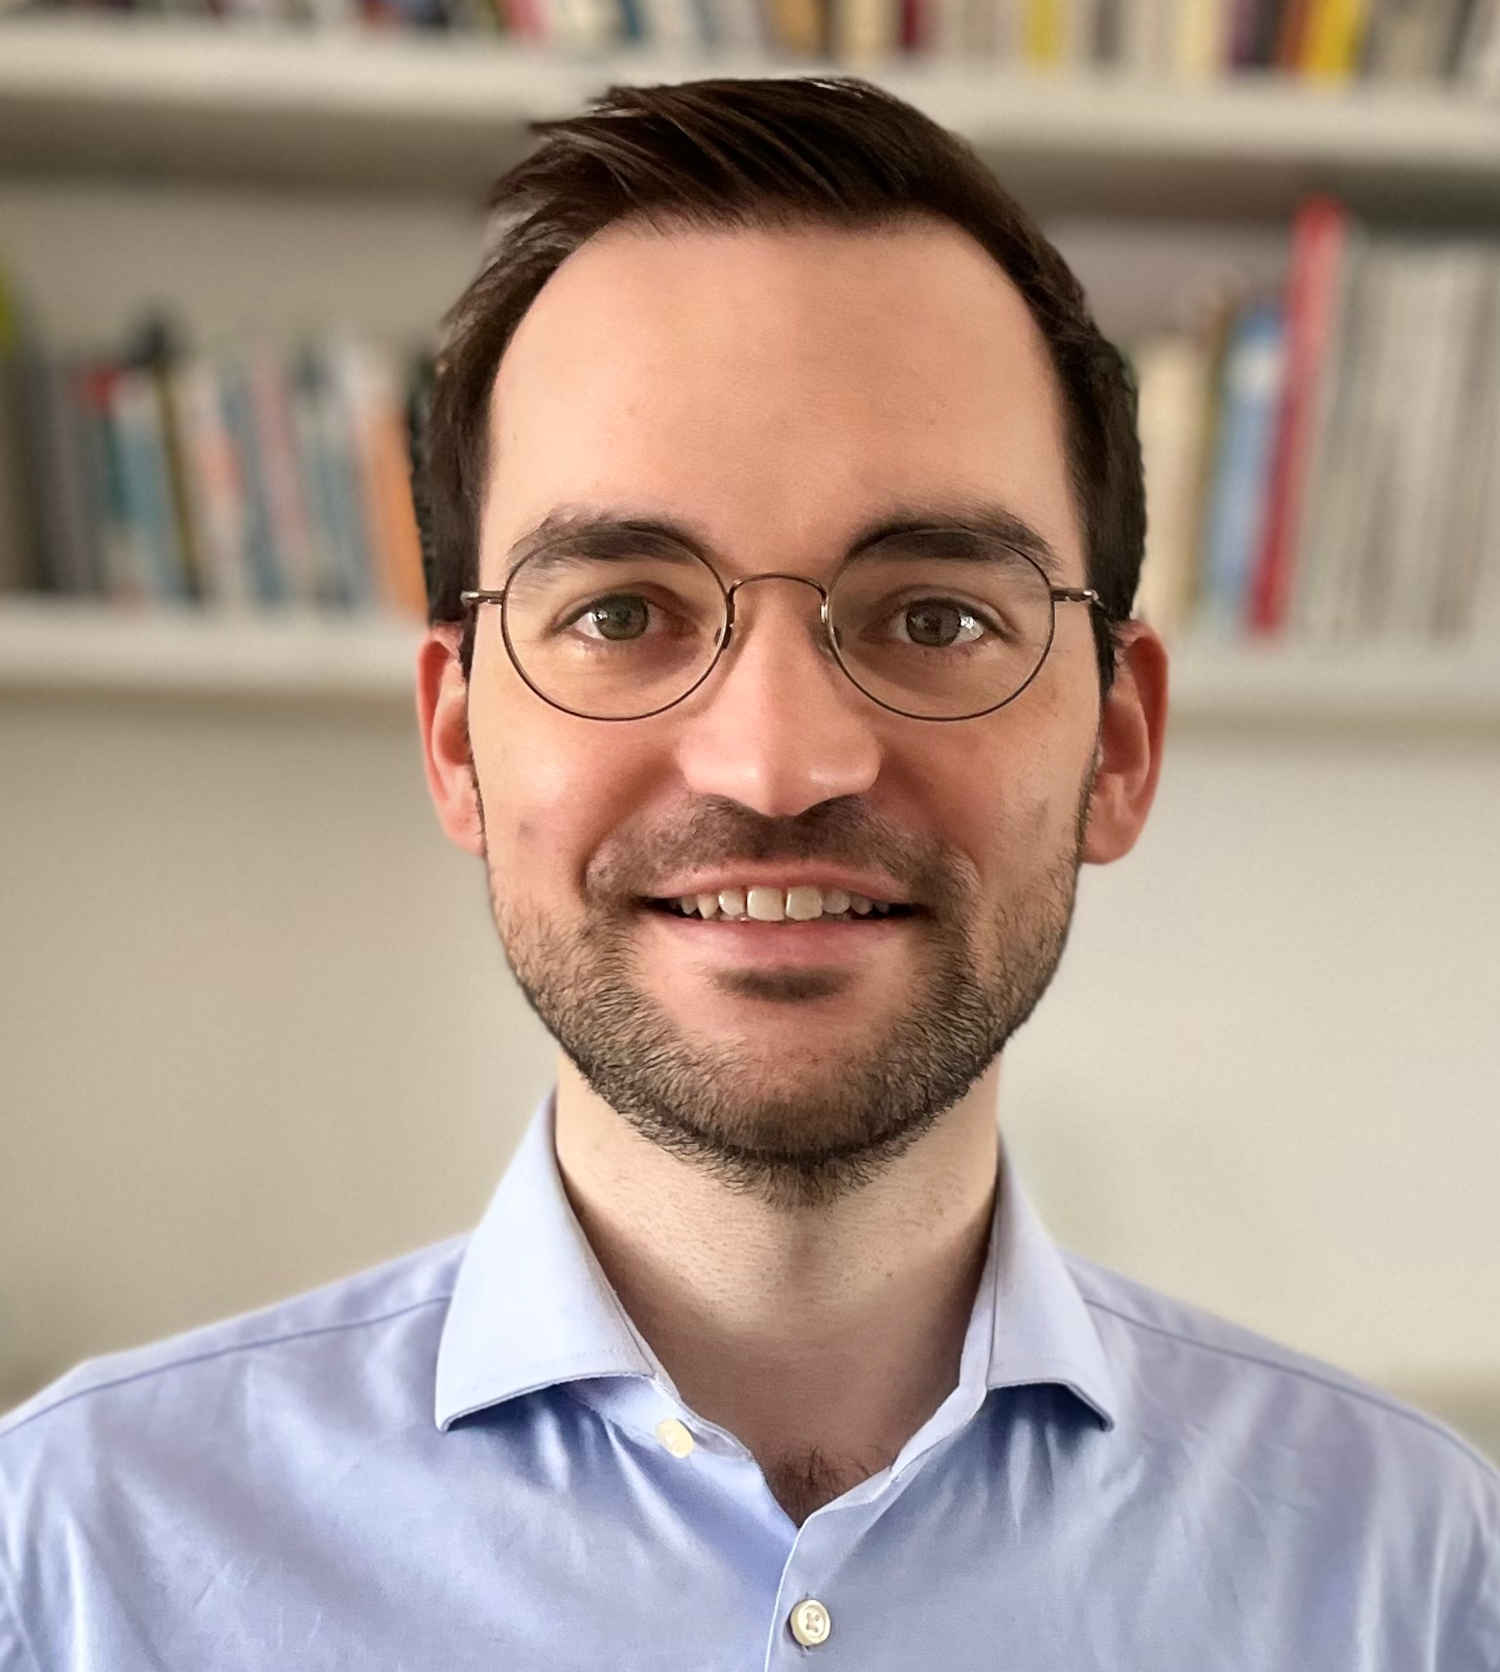
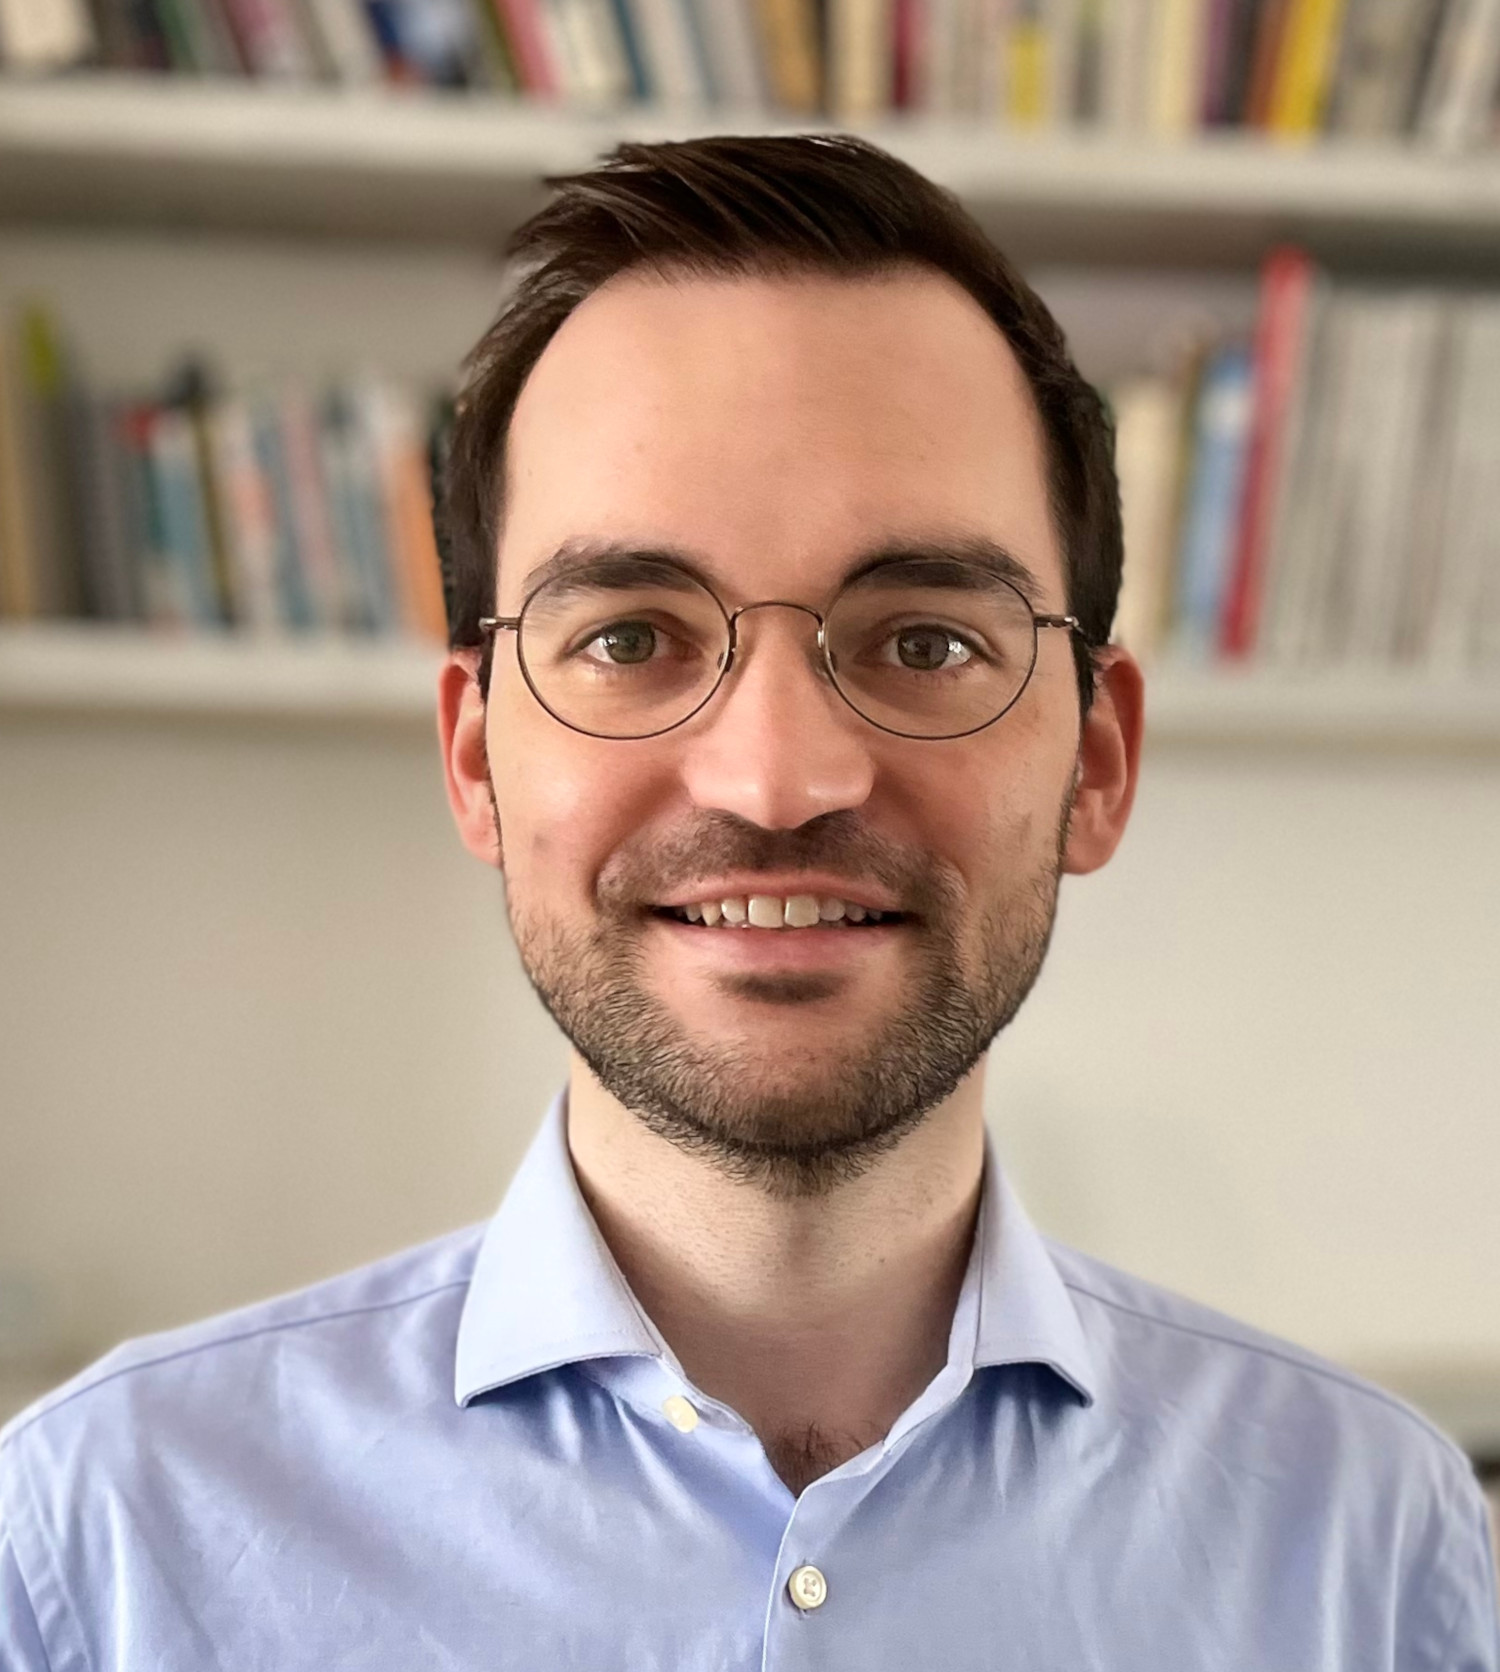
new picture

diff --git a/index.html b/index.html
@@ -753,7 +753,7 @@
 
       
       
-      <img class="avatar avatar-square" src="/authors/admin/avatar_hu777c251fd71f1f1f2a7b6e1d4db778cf_125503_270x270_fill_q75_lanczos_center.jpg" alt="">
+      <img class="avatar avatar-square" src="/authors/admin/avatar_hu840d6055318eee7aee7941ae54c4fe78_375988_270x270_fill_q75_lanczos_center.jpg" alt="">
       
 
       <div class="portrait-title">
